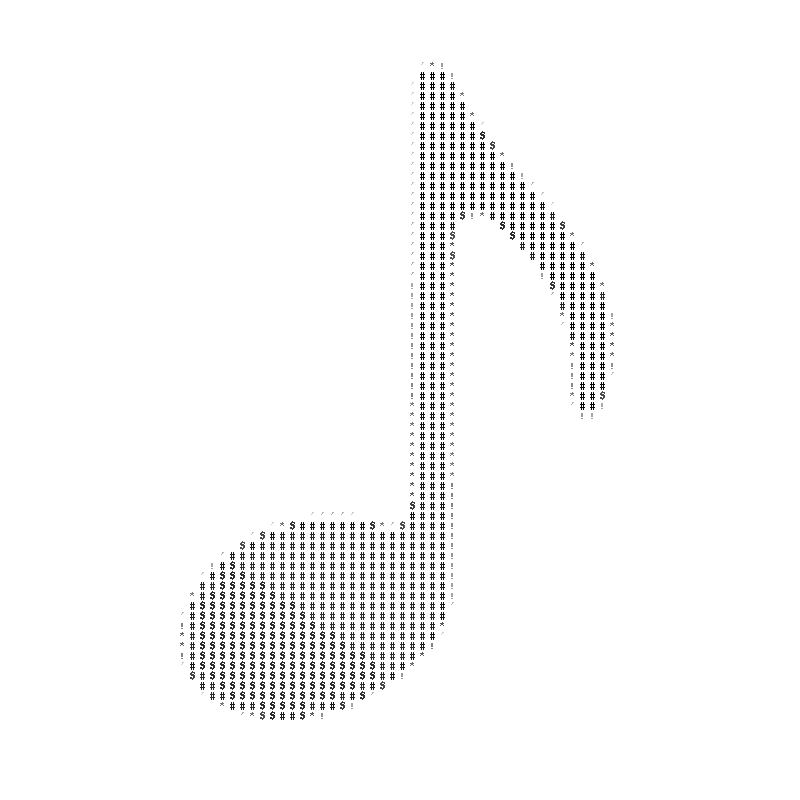
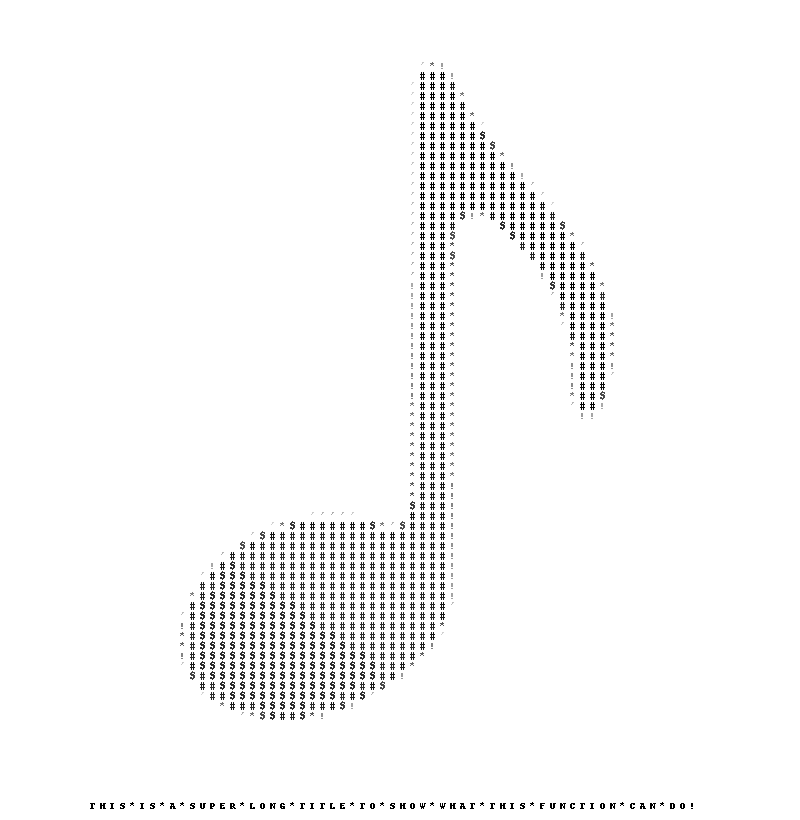
im2a - new addTitle function - rename convert() to run() - rename output2Image to _outputImage - make output2image and output2blocks call _outputImage (easier to use)
note_blocks, note_image, note_text
- update test image/output with new title function test

diff --git a/im2a/im2a.py b/im2a/im2a.py
@@ -5,7 +5,7 @@ from os import path
 
 __author__ = "Jason Rebuck"
 __copyright__ = "2011/2012"
-__version__ = "v.15"
+__version__ = "v.16"
 
 ##########
 # USAGE ##
@@ -14,7 +14,7 @@ __version__ = "v.15"
 # im2a = Image2Ascii(<image name>, <block size>, <character map list>) <!--inits and sets values
 # im2a.setCharMap(<character map list>) <!-- (OPTIONAL) replaces character map is new list
 #
-# im2a.convert() <!--converts image to ascii. saves all data to a list. (self.outputText)
+# im2a.run() <!--converts image to ascii. saves all data to a list. (self.outputText)
 # im2a.output2text() <!-- writes list to file
 # im2a.output2image(<blocksize>, <useText-True|False>) <!-- writes list to image file 
 
@@ -53,7 +53,7 @@ class Image2Ascii:
         except:
             return 255 #if out of range or no pixel values, return white
 
-    def convert(self):
+    def run(self):
         """Loop Through Each Block in Image and Translate Each Value to a List Value"""
         yBreak = False
         self.outputText = [] #clear output list
@@ -82,6 +82,25 @@ class Image2Ascii:
             if yBreak: #break when you reach the max height
                 break
 
+    def addTitle(self, text, spacer="*", color=0):
+        if self.outputText and (len(text) <= len(self.outputText[-1])): #make sure text will fit
+            halfLen = round(len(self.outputText[-1])/2.0) #get half of row length
+            halfText = round(len(text)/2.0) #get half of text length
+            text = str(text).replace(" ", spacer).upper() #format text
+            textRow = self.outputText[-1][0:] #copy a text row
+            colorRow = self.outputColor[-1][0:] #copy a color row
+            counter = 0 # start with 0.
+            for i in range(int(halfLen-halfText), int(halfLen-halfText) + len(text)):
+                textRow[i] = text[counter] #replace text char of that spot in row
+                colorRow[i] = color #replace color of that spot in row
+                counter += 1 #inc counter
+            self.outputText.append(textRow) #add text row
+            self.outputText.append(self.outputText[-2][0:]) #copy extra row for spacing
+            self.outputColor.append(colorRow) #add color row
+            self.outputColor.append(self.outputColor[-2][0:]) #copy extra row for spacing
+        else:
+            print "Oops, Title is Too Long"
+                
     def output2text(self):
         """Writes Output to Text File"""
         root, ext = path.splitext(self.imageName) #take off extention
@@ -99,7 +118,8 @@ class Image2Ascii:
             print "Unable to Write File!"
             raise
 
-    def output2image(self, blockSize=10, useText=True):
+    #multi function to output as a text image or an image of tone blocks
+    def _outputImage(self, blockSize, useText=True):
         """Writes Output to Image File"""
         if not blockSize:
             blockSize = self.blockSize #lets you scale output size
@@ -132,12 +152,22 @@ class Image2Ascii:
         outImage.save(fileName) #write to output image
 
 
+    #easy to use wrapper for outputImage
+    def output2blocks(self, blockSize=10):
+        self._outputImage(blockSize, False)
+
+    #easy to use wrapper for outputImage
+    def output2image(self, blockSize=10):
+        self._outputImage(blockSize)
+
+
 if __name__ == "__main__":
 
-    im = Image2Ascii('not.jpg', 5) #load image
-    im.convert() #collect and process image data
+    im = Image2Ascii('note.jpg', 5) #load image
+    im.run() #collect and process image data
+    im.addTitle("this is a super long title to show what this function can do!")
     im.output2text() #output to text file
     im.output2image() #output to text image
-    im.output2image(0, False) #output to block image
+    im.output2blocks() #output to block image
 
 
